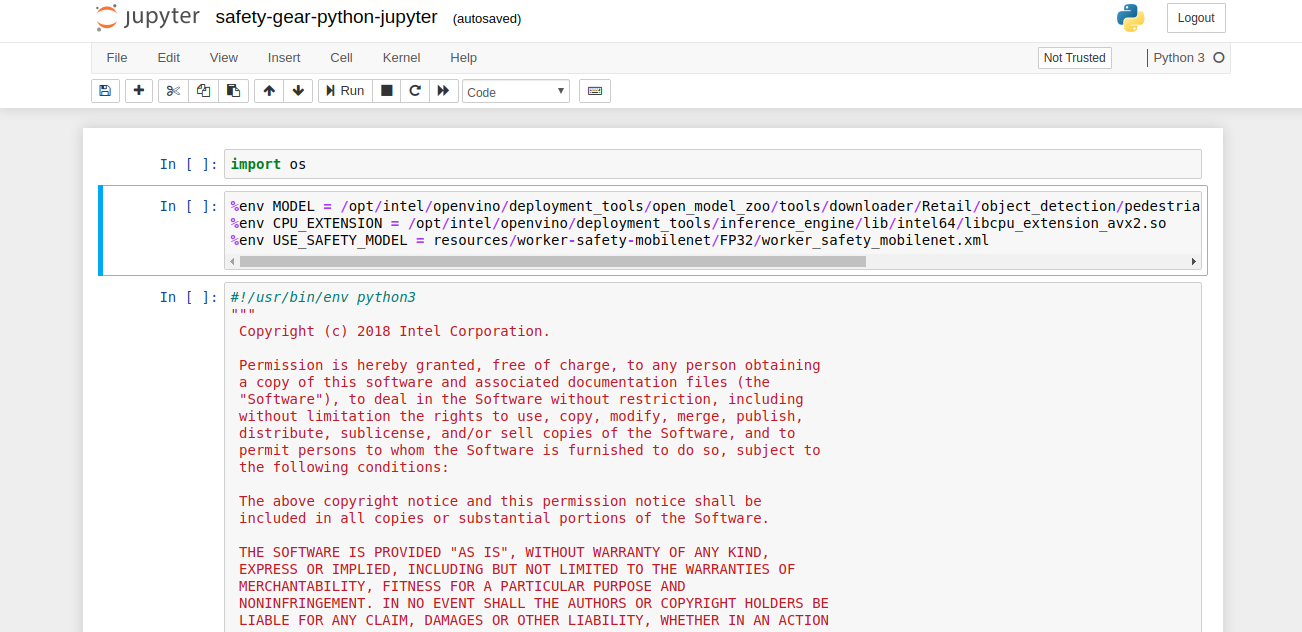
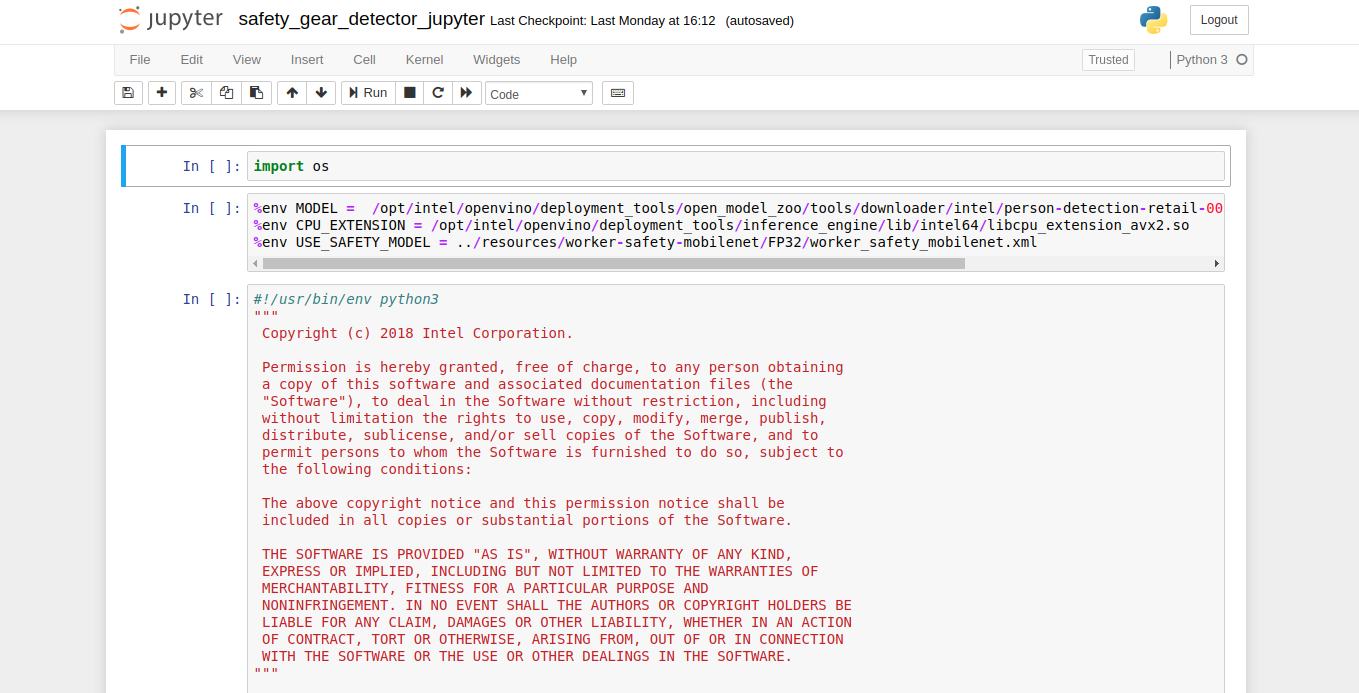
Update to OpenVINO R3

Changed region(s): [[0.0, 0.0, 1.0, 1.0], [0.7988, 0.0, 0.9524, 0.1203]]

diff --git a/README.md b/README.md
@@ -29,7 +29,7 @@ This reference implementation is capable of detecting people passing in front of
 
 - OpenCL™ Runtime Package
 
-- Intel® Distribution of OpenVINO™ toolkit 2019 R2 Release
+- Intel® Distribution of OpenVINO™ toolkit 2019 R3 Release
 
 ## How It Works
 The application uses the Inference Engine included in the Intel® Distribution of OpenVINO™ toolkit.
@@ -66,7 +66,7 @@ Install the OpenCL™ Runtime Package to run inference on the GPU, as shown in t
 
 ## Which model to use
 
-This application uses the [person-detection-retail-0013](https://docs.openvinotoolkit.org/2019_R2/_intel_models_person_detection_retail_0013_description_person_detection_retail_0013.html) Intel® model, that can be downloaded using the **model downloader**. The **model downloader** downloads the __.xml__ and __.bin__ files that will be used by the application.
+This application uses the [person-detection-retail-0013](https://docs.openvinotoolkit.org/2019_R3/_models_intel_person_detection_retail_0013_description_person_detection_retail_0013.html) Intel® model, that can be downloaded using the **model downloader**. The **model downloader** downloads the __.xml__ and __.bin__ files that will be used by the application.
 
 The application also uses the **worker_safety_mobilenet** model, whose Caffe* model file are provided in the `resources/worker-safety-mobilenet` directory. These need to be passed through the model optimizer to generate the IR (the .xml and .bin files) that will be used by the application.
 
@@ -157,17 +157,17 @@ To see a list of the various options:
 ./safety_gear_detector.py -h
 ```
 A user can specify what target device to run on by using the device command-line argument `-d`. If no target device is specified the application will run on the CPU by default.
-To run with multiple devices use _-d MULTI:device1,device2_. For example: _-d MULTI:CPU,GPU_
+To run with multiple devices use _-d MULTI:device1,device2_. For example: _-d MULTI:CPU,GPU,MYRIAD_
 
 ### Run on the CPU
 
 To run the application using **worker_safety_mobilenet** model, use the `-sm` flag followed by the path to the worker_safety_mobilenet.xml file, as follows:
 ```
-./safety_gear_detector.py -d CPU -m /opt/intel/openvino/deployment_tools/open_model_zoo/tools/downloader/Retail/object_detection/pedestrian/rmnet_ssd/0013/dldt/FP32/person-detection-retail-0013.xml -sm ../resources/worker-safety-mobilenet/FP32/worker_safety_mobilenet.xml -e /opt/intel/openvino/deployment_tools/inference_engine/lib/intel64/libcpu_extension_avx2.so
+./safety_gear_detector.py -d CPU -m /opt/intel/openvino/deployment_tools/open_model_zoo/tools/downloader/intel/person-detection-retail-0013/FP32/person-detection-retail-0013.xml -sm ../resources/worker-safety-mobilenet/FP32/worker_safety_mobilenet.xml -e /opt/intel/openvino/deployment_tools/inference_engine/lib/intel64/libcpu_extension_avx2.so
 ```
 If the worker_safety_mobilenet model is not provided as command-line argument, the application uses OpenCV to detect safety jacket and hard-hat. To run the application without using worker_safety_mobilenet model:
 ```
-./safety_gear_detector.py -d CPU -m /opt/intel/openvino/deployment_tools/open_model_zoo/tools/downloader/Retail/object_detection/pedestrian/rmnet_ssd/0013/dldt/FP32/person-detection-retail-0013.xml -e /opt/intel/openvino/deployment_tools/inference_engine/lib/intel64/libcpu_extension_avx2.so
+./safety_gear_detector.py -d CPU -m /opt/intel/openvino/deployment_tools/open_model_zoo/tools/downloader/intel/person-detection-retail-0013/FP32/person-detection-retail-0013.xml -e /opt/intel/openvino/deployment_tools/inference_engine/lib/intel64/libcpu_extension_avx2.so
 ```
 **Note:** By default, the application runs on async mode. To run the application on sync mode, use ```-f sync``` as command-line argument.
 
@@ -177,50 +177,61 @@ If the worker_safety_mobilenet model is not provided as command-line argument, t
     **FP32:** FP32 is single-precision floating-point arithmetic uses 32 bits to represent numbers. 8 bits for the magnitude and 23 bits for the precision. For more information, [click here](https://en.wikipedia.org/wiki/Single-precision_floating-point_format)
     
     ```
-    ./safety_gear_detector.py -d GPU -m /opt/intel/openvino/deployment_tools/open_model_zoo/tools/downloader/Retail/object_detection/pedestrian/rmnet_ssd/0013/dldt/FP32/person-detection-retail-0013.xml -sm ../resources/worker-safety-mobilenet/FP32/worker_safety_mobilenet.xml
+    ./safety_gear_detector.py -d GPU -m /opt/intel/openvino/deployment_tools/open_model_zoo/tools/downloader/intel/person-detection-retail-0013/FP32/person-detection-retail-0013.xml -sm ../resources/worker-safety-mobilenet/FP32/worker_safety_mobilenet.xml
     ```
 * To run on the integrated Intel® GPU with floating point precision 16 (FP16):
 
     **FP16:** FP16 is half-precision floating-point arithmetic uses 16 bits. 5 bits for the magnitude and 10 bits for the precision. For more information, [click here](https://en.wikipedia.org/wiki/Half-precision_floating-point_format)
     
     ```
-    ./safety_gear_detector.py -d GPU -m /opt/intel/openvino/deployment_tools/open_model_zoo/tools/downloader/Retail/object_detection/pedestrian/rmnet_ssd/0013/dldt/FP16/person-detection-retail-0013.xml -sm ../resources/worker-safety-mobilenet/FP16/worker_safety_mobilenet.xml
+    ./safety_gear_detector.py -d GPU -m /opt/intel/openvino/deployment_tools/open_model_zoo/tools/downloader/intel/person-detection-retail-0013/FP16/person-detection-retail-0013.xml -sm ../resources/worker-safety-mobilenet/FP16/worker_safety_mobilenet.xml
     ```
-<!--
 ### Run on the Intel® Neural Compute Stick
 To run on the Intel® Neural Compute Stick, use the `-d MYRIAD` command-line argument:
 ```
-./safety_gear_detector.py -d MYRIAD -m /opt/intel/openvino/deployment_tools/open_model_zoo/tools/downloader/Retail/object_detection/pedestrian/rmnet_ssd/0013/dldt/FP16/person-detection-retail-0013.xml -sm ../resources/worker-safety-mobilenet/FP16/worker_safety_mobilenet.xml
+./safety_gear_detector.py -d MYRIAD -m /opt/intel/openvino/deployment_tools/open_model_zoo/tools/downloader/intel/person-detection-retail-0013/FP16/person-detection-retail-0013.xml -sm ../resources/worker-safety-mobilenet/FP16/worker_safety_mobilenet.xml
 ```
-**Note:** The Intel® Neural Compute Stick can only run FP16 models. The model that is passed to the application, through the `-m <path_to_model>` command-line argument, must be of data type FP16.   
--->
 
 ### Run on the Intel® Movidius™ VPU
 To run on the Intel® Movidius™ VPU, use the `-d HDDL` command-line argument:
 ```
-./safety_gear_detector.py -m /opt/intel/openvino/deployment_tools/open_model_zoo/tools/downloader/Retail/object_detection/pedestrian/rmnet_ssd/0013/dldt/FP16/person-detection-retail-0013.xml -sm ../resources/worker-safety-mobilenet/FP16/worker_safety_mobilenet.xml -d HDDL
+./safety_gear_detector.py -m /opt/intel/openvino/deployment_tools/open_model_zoo/tools/downloader/intel/person-detection-retail-0013/FP32/person-detection-retail-0013.xml -sm ../resources/worker-safety-mobilenet/FP16/worker_safety_mobilenet.xml -d HDDL
 ```
 **Note:** The Intel® Movidius™ VPU can only run FP16 models. The model that is passed to the application through the `-m <path_to_model>` command-line argument must be of data type FP16.
 
-<!-- ### Run on the FPGA
+### Run on the Intel® Arria® 10 FPGA
 
-Before running the application on the FPGA,  program the AOCX (bitstream) file.
-Use the setup_env.sh script from [fpga_support_files.tgz](http://registrationcenter-download.intel.com/akdlm/irc_nas/12954/fpga_support_files.tgz) to set the environment variables.<br>
-For example:
+Before running the application on the FPGA, set the environment variables and  program the AOCX (bitstream) file.<br>
+
+Set the Board Environment Variable to the proper directory:
 
 ```
-source /home/<user>/Downloads/fpga_support_files/setup_env.sh
+export AOCL_BOARD_PACKAGE_ROOT=/opt/intel/openvino/bitstreams/a10_vision_design_sg<#>_bitstreams/BSP/a10_1150_sg<#>
+```
+**NOTE**: If you do not know which version of the board you have, please refer to the product label on the fan cover side or by the product SKU: Mustang-F100-A10-R10 => SG1; Mustang-F100-A10E-R10 => SG2 <br>
+
+Set the Board Environment Variable to the proper directory:
+```
+export QUARTUS_ROOTDIR=/home/<user>/intelFPGA/18.1/qprogrammer
+```
+Set the remaining environment variables:
+```
+export PATH=$PATH:/opt/altera/aocl-pro-rte/aclrte-linux64/bin:/opt/altera/aocl-pro-rte/aclrte-linux64/host/linux64/bin:/home/<user>/intelFPGA/18.1/qprogrammer/bin
+export INTELFPGAOCLSDKROOT=/opt/altera/aocl-pro-rte/aclrte-linux64
+export LD_LIBRARY_PATH=$LD_LIBRARY_PATH:$AOCL_BOARD_PACKAGE_ROOT/linux64/lib
+export CL_CONTEXT_COMPILER_MODE_INTELFPGA=3
+source /opt/altera/aocl-pro-rte/aclrte-linux64/init_opencl.sh
+```
+**NOTE**: It is recommended to create your own script for your system to aid in setting up these environment variables. It will be run each time you need a new terminal or restart your system.
+
+The bitstreams for HDDL-F can be found under the `/opt/intel/openvino/bitstreams/a10_vision_design_sg<#>_bitstreams/` directory.<br><br>To program the bitstream use the below command:<br>
+```
+aocl program acl0 /opt/intel/openvino/bitstreams/a10_vision_design_sg<#>_bitstreams/2019R3_PV_PL1_FP11_RMNet.aocx
 ```
 
-The bitstreams for HDDL-F can be found under the `/opt/intel/openvino/bitstreams/a10_vision_design_bitstreams` folder.<br><br>To program the bitstream use the below command:<br>
-```
-aocl program acl0 /opt/intel/openvino/bitstreams/a10_vision_design_bitstreams/2019R1_PL1_FP11_RMNet.aocx
-```
+For more information on programming the bitstreams, please refer the [link](https://software.intel.com/en-us/articles/OpenVINO-Install-Linux-FPGA#inpage-nav-11).
 
-For more information on programming the bitstreams, please refer to https://software.intel.com/en-us/articles/OpenVINO-Install-Linux-FPGA#inpage-nav-11
-
-To run the application on the FPGA with floating point precision 16 (FP16) use the `-d HETERO:FPGA,CPU` command-line argument:
+To run the application on the FPGA with floating point precision 16 (FP16), use  `-d HETERO:FPGA,CPU` command-line argument:
 ```
-./safety_gear_detector.py -m /opt/intel/openvino/deployment_tools/open_model_zoo/tools/downloader/Retail/object_detection/pedestrian/rmnet_ssd/0013/dldt/FP16/person-detection-retail-0013.xml -sm resources/worker-safety-mobilenet/FP16/worker_safety_mobilenet.xml -d HETERO:FPGA,CPU -e /opt/intel/openvino/deployment_tools/inference_engine/lib/intel64/libcpu_extension_avx2.so
+./safety_gear_detector.py -m /opt/intel/openvino/deployment_tools/open_model_zoo/tools/downloader/intel/person-detection-retail-0013/FP32/person-detection-retail-0013.xml -sm ../resources/worker-safety-mobilenet/FP16/worker_safety_mobilenet.xml -e /opt/intel/openvino/deployment_tools/inference_engine/lib/intel64/libcpu_extension_avx2.so -d HETERO:FPGA,CPU
 ```
- -->

diff --git a/Jupyter/README.md b/Jupyter/README.md
@@ -29,7 +29,7 @@ This reference implementation is capable of detecting people passing in front of
 
 - OpenCL™ Runtime Package
 
-- Intel® Distribution of OpenVINO™ toolkit 2019 R2 Release
+- Intel® Distribution of OpenVINO™ toolkit 2019 R3 Release
 
 ## How It Works
 The application uses the Inference Engine included in the Intel® Distribution of OpenVINO™ toolkit.
@@ -73,7 +73,7 @@ FFmpeg is a free and open-source project capable of recording, converting and st
 
 ## Which model to use
 
-This application uses the [person-detection-retail-0013](https://docs.openvinotoolkit.org/2019_R2/_intel_models_person_detection_retail_0013_description_person_detection_retail_0013.html) Intel® model, that can be downloaded using the **model downloader**. The **model downloader** downloads the __.xml__ and __.bin__ files that will be used by the application.
+This application uses the [person-detection-retail-0013](https://docs.openvinotoolkit.org/2019_R3/_models_intel_person_detection_retail_0013_description_person_detection_retail_0013.html) Intel® model, that can be downloaded using the **model downloader**. The **model downloader** downloads the __.xml__ and __.bin__ files that will be used by the application.
 
 The application also uses the **worker_safety_mobilenet** model, whose Caffe* model file are provided in the `resources/worker-safety-mobilenet` directory. These need to be passed through the model optimizer to generate the IR (the .xml and .bin files) that will be used by the application.
 
@@ -158,28 +158,42 @@ __Note__: This command needs to be executed only once in the terminal where the 
     ```
     cd <path_to_the_safety-gear-detector-cpp-with-worker-safety-model_directory>/Jupyter
     ```
-<!-- 
-    **Note:**<br>
-    Before running the application on the FPGA, program the AOCX (bitstream) file. Use the setup_env.sh script from [fpga_support_files.tgz](http://registrationcenter-download.intel.com/akdlm/irc_nas/12954/fpga_support_files.tgz) to set the environment variables.<br>
-    For example:
-
-    ```
-    source /home/<user>/Downloads/fpga_support_files/setup_env.sh
-    ```
-
-    The bitstreams for HDDL-F can be found under the `/opt/intel/openvino/bitstreams/a10_vision_design_bitstreams` folder.<br>To program the bitstream use the below command:<br>
-    ```
-    aocl program acl0 /opt/intel/openvino/bitstreams/a10_vision_design_bitstreams/2019R1_PL1_FP11_RMNet.aocx
-    ```
-
-    For more information on programming the bitstreams, please refer to https://software.intel.com/en-us/articles/OpenVINO-Install-Linux-FPGA#inpage-nav-11
-    <br> -->
 
 * Open the jupyter notebook:
 
     ```
     jupyter notebook
     ```
+    **Note:** Before running the application on the FPGA, set the environment variables and  program the AOCX (bitstream) file.<br>
+
+    Set the Board Environment Variable to the proper directory:
+
+    ```
+    export AOCL_BOARD_PACKAGE_ROOT=/opt/intel/openvino/bitstreams/a10_vision_design_sg<#>_bitstreams/BSP/a10_1150_sg<#>
+    ```
+    **NOTE**: If you do not know which version of the board you have, please refer to the product label on the fan cover side or by the product SKU: Mustang-F100-A10-R10 => SG1; Mustang-F100-A10E-R10 => SG2 <br>
+
+    Set the Board Environment Variable to the proper directory:
+    ```
+    export QUARTUS_ROOTDIR=/home/<user>/intelFPGA/18.1/qprogrammer
+    ```
+    Set the remaining environment variables:
+    ```
+    export PATH=$PATH:/opt/altera/aocl-pro-rte/aclrte-linux64/bin:/opt/altera/aocl-pro-rte/aclrte-linux64/host/linux64/bin:/home/<user>/intelFPGA/18.1/qprogrammer/bin
+    export INTELFPGAOCLSDKROOT=/opt/altera/aocl-pro-rte/aclrte-linux64
+    export LD_LIBRARY_PATH=$LD_LIBRARY_PATH:$AOCL_BOARD_PACKAGE_ROOT/linux64/lib
+    export CL_CONTEXT_COMPILER_MODE_INTELFPGA=3
+    source /opt/altera/aocl-pro-rte/aclrte-linux64/init_opencl.sh
+    ```
+    **NOTE**: It is recommended to create your own script for your system to aid in setting up these environment variables. It will be run each time you need a new terminal or restart your system.
+
+    The bitstreams for HDDL-F can be found under the `/opt/intel/openvino/bitstreams/a10_vision_design_sg<#>_bitstreams/` directory.<br><br>To program the bitstream use the below command:<br>
+    ```
+    aocl program acl0 /opt/intel/openvino/bitstreams/a10_vision_design_sg<#>_bitstreams/2019R3_PV_PL1_FP11_RMNet.aocx
+    ```
+
+    For more information on programming the bitstreams, please refer the [link](https://software.intel.com/en-us/articles/OpenVINO-Install-Linux-FPGA#inpage-nav-11).
+
 
 #### Follow the steps to run the code on Jupyter:
 
@@ -193,7 +207,7 @@ __Note__: This command needs to be executed only once in the terminal where the 
 
 4. Export the environment variables in second cell of Jupyter and press **Shift+Enter**.<br>
    ```
-   %env MODEL = /opt/intel/openvino/deployment_tools/open_model_zoo/tools/downloader/Retail/object_detection/pedestrian/rmnet_ssd/0013/dldt/FP32/person-detection-retail-0013.xml
+   %env MODEL =  /opt/intel/openvino/deployment_tools/open_model_zoo/tools/downloader/intel/person-detection-retail-0013/FP32/person-detection-retail-0013.xml
    %env CPU_EXTENSION = /opt/intel/openvino/deployment_tools/inference_engine/lib/intel64/libcpu_extension_avx2.so
    %env USE_SAFETY_MODEL = ../resources/worker-safety-mobilenet/FP32/worker_safety_mobilenet.xml
    ```
@@ -226,29 +240,37 @@ __Note__: This command needs to be executed only once in the terminal where the 
      * With the floating point precision 16 (FP16), change the environment variables as given below:<br>
        ```
        %env DEVICE = GPU
-       %env MODEL=/opt/intel/openvino/deployment_tools/open_model_zoo/tools/downloader/Retail/object_detection/pedestrian/rmnet_ssd/0013/dldt/FP16/person-detection-retail-0013.xml
+       %env MODEL=/opt/intel/openvino/deployment_tools/open_model_zoo/tools/downloader/intel/person-detection-retail-0013/FP32/person-detection-retail-0013.xml
        %env USE_SAFETY_MODEL = ../resources/worker-safety-mobilenet/FP16/worker_safety_mobilenet.xml
        ```
      * **CPU_EXTENSION** environment variable is not required.<br>
      **FP16:** FP16 is half-precision floating-point arithmetic uses 16 bits. 5 bits for the magnitude and 10 bits for the precision. For more information, [click here](https://en.wikipedia.org/wiki/Half-precision_floating-point_format)
-<!--
-2. To run the application on ```Intel® Neural Compute Stick```:
+
+2. To run the application on **Intel® Neural Compute Stick**:
       * Change the **%env DEVICE = CPU** to **%env DEVICE = MYRIAD**.
-      * The Intel® Neural Compute Stick can only run FP16 models. Hence change the environment variable for the model as shown below.<br> 
-      **%env MODEL=/opt/intel/openvino/deployment_tools/open_model_zoo/tools/downloader/Retail/object_detection/pedestrian/rmnet_ssd/0013/dldt/FP16/person-detection-retail-0013.xml** <br>
+      **%env MODEL=/opt/intel/openvino/deployment_tools/open_model_zoo/tools/downloader/intel/person-detection-retail-0013/FP16/person-detection-retail-0013.xml** <br>
       **%env USE_SAFETY_MODEL = ../resources/worker-safety-mobilenet/FP16/worker_safety_mobilenet.xml**<br>
       * **CPU_EXTENSION** environment variable is not required.
--->
-3. To run the application on ```Intel® Movidius™ VPU```:
+
+3. To run the application on **Intel® Movidius™ VPU**:
     - Change the **%env DEVICE = CPU** to **%env DEVICE = HDDL**.
     - The HDDL can only run FP16 models. Change the environment variable for the model as shown below  and the model that is passed to the application must be of data type FP16. <br>
-    **%env MODEL=/opt/intel/openvino/deployment_tools/open_model_zoo/tools/downloader/Retail/object_detection/pedestrian/rmnet_ssd/0013/dldt/FP16/person-detection-retail-0013.xml** <br>
+    **%env MODEL=/opt/intel/openvino/deployment_tools/open_model_zoo/tools/downloader/intel/person-detection-retail-0013/FP16/person-detection-retail-0013.xml** <br>
     **%env USE_SAFETY_MODEL = ../resources/worker-safety-mobilenet/FP16/worker_safety_mobilenet.xml**<br>
     - **CPU_EXTENSION** environment variable is not required.
+
+4. To run the application on **Intel® Arria® 10 FPGA**:
+
+    - Change the **%env DEVICE = CPU** to **%env DEVICE = HETERO:FPGA,CPU**.
+    - With the floating point precision 16 (FP16), change the path of the model in the environment variable MODEL as given below:<br>
+        **%env MODEL=/opt/intel/openvino/deployment_tools/open_model_zoo/tools/downloader/intel/person-detection-retail-0013/FP16/person-detection-retail-0013.xml** <br>
+        **%env USE_SAFETY_MODEL = ../resources/worker-safety-mobilenet/FP16/worker_safety_mobilenet.xml**<br>
+    - **%env CPU_EXTENSION=/opt/intel/openvino/deployment_tools/inference_engine/lib/intel64/libcpu_extension_avx2.so**
+
 4. To run the application on multiple devices:
-    - Change the **%env DEVICE = CPU** to **%env DEVICE = MULTI:CPU,GPU**
+    - Change the **%env DEVICE = CPU** to **%env DEVICE = MULTI:CPU,GPU,MYRIAD**
     - With the floating point precision 16 (FP16), change the path of the model in the environment variable MODEL as given below: 
-    **%env MODEL=/opt/intel/openvino/deployment_tools/open_model_zoo/tools/downloader/Retail/object_detection/pedestrian/rmnet_ssd/0013/dldt/FP16/person-detection-retail-0013.xml** <br>
+    **%env MODEL=/opt/intel/openvino/deployment_tools/open_model_zoo/tools/downloader/intel/person-detection-retail-0013/FP32/person-detection-retail-0013.xml** <br>
     **%env USE_SAFETY_MODEL = ../resources/worker-safety-mobilenet/FP16/worker_safety_mobilenet.xml**<br>
     - **%env CPU_EXTENSION=/opt/intel/openvino/deployment_tools/inference_engine/lib/intel64/libcpu_extension_avx2.so**<br>
 
